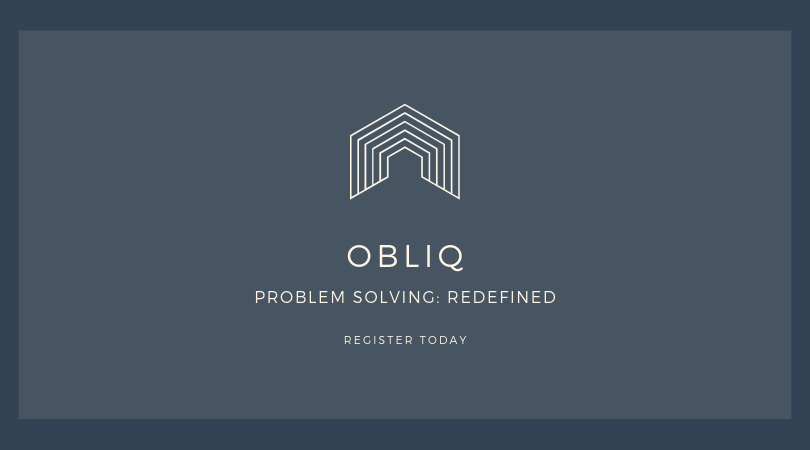
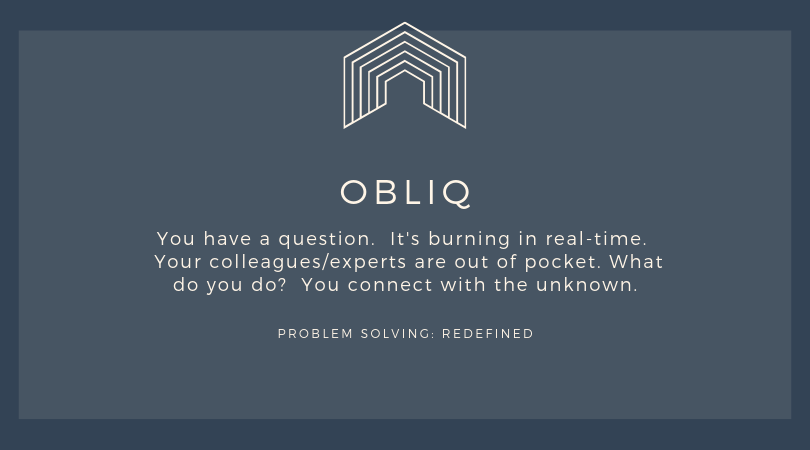
added description to splash & swapped file

Changed region(s): [[0.1852, 0.4978, 0.8333, 0.6844], [0.4012, 0.0311, 0.5864, 0.4667], [0.3395, 0.7156, 0.6481, 0.7778]]

diff --git a/src/main/resources/static/js/animation.js b/src/main/resources/static/js/animation.js
@@ -1,21 +1,179 @@
+let boids = [];
 
 function setup() {
-    createCanvas(720, 400);
-    noStroke();
-    noLoop();
+    createCanvas(100, 600);
+
+    // Add an initial set of boids into the system
+    for (let i = 0; i < 100; i++) {
+        boids[i] = new Boid(random(width), random(height));
+    }
 }
 
 function draw() {
-    drawCircle(width / 2, 280, 6);
-}
-
-function drawCircle(x, radius, level) {
-    const tt = (126 * level) / 4.0;
-    fill(tt);
-    ellipse(x, height / 2, radius * 2, radius * 2);
-    if (level > 1) {
-        level = level - 1;
-        drawCircle(x - radius / 2, radius / 2, level);
-        drawCircle(x + radius / 2, radius / 2, level);
+    background(51);
+    // Run all the boids
+    for (let i = 0; i < boids.length; i++) {
+        boids[i].run(boids);
     }
 }
+
+// Boid class
+// Methods for Separation, Cohesion, Alignment added
+class Boid {
+    constructor(x, y) {
+        this.acceleration = createVector(0, 0);
+        this.velocity = p5.Vector.random2D();
+        this.position = createVector(x, y);
+        this.r = 3.0;
+        this.maxspeed = 3;    // Maximum speed
+        this.maxforce = 0.05; // Maximum steering force
+    }
+
+    run(boids) {
+        this.flock(boids);
+        this.update();
+        this.borders();
+        this.render();
+    }
+
+    // Forces go into acceleration
+    applyForce(force) {
+        this.acceleration.add(force);
+    }
+
+    // We accumulate a new acceleration each time based on three rules
+    flock(boids) {
+        let sep = this.separate(boids); // Separation
+        let ali = this.align(boids);    // Alignment
+        let coh = this.cohesion(boids); // Cohesion
+        // Arbitrarily weight these forces
+        sep.mult(2.5);
+        ali.mult(1.0);
+        coh.mult(1.0);
+        // Add the force vectors to acceleration
+        this.applyForce(sep);
+        this.applyForce(ali);
+        this.applyForce(coh);
+    }
+
+    // Method to update location
+    update() {
+        // Update velocity
+        this.velocity.add(this.acceleration);
+        // Limit speed
+        this.velocity.limit(this.maxspeed);
+        this.position.add(this.velocity);
+        // Reset acceleration to 0 each cycle
+        this.acceleration.mult(0);
+    }
+
+    // A method that calculates and applies a steering force towards a target
+    // STEER = DESIRED MINUS VELOCITY
+    seek(target) {
+        let desired = p5.Vector.sub(target, this.position); // A vector pointing from the location to the target
+        // Normalize desired and scale to maximum speed
+        desired.normalize();
+        desired.mult(this.maxspeed);
+        // Steering = Desired minus Velocity
+        let steer = p5.Vector.sub(desired, this.velocity);
+        steer.limit(this.maxforce); // Limit to maximum steering force
+        return steer;
+    }
+
+    // Draw boid as a circle
+    render() {
+        fill(127, 127);
+        stroke(200);
+        ellipse(this.position.x, this.position.y, 16, 16);
+    }
+
+    // Wraparound
+    borders() {
+        if (this.position.x < -this.r) this.position.x = width + this.r;
+        if (this.position.y < -this.r) this.position.y = height + this.r;
+        if (this.position.x > width + this.r) this.position.x = -this.r;
+        if (this.position.y > height + this.r) this.position.y = -this.r;
+    }
+
+    // Separation
+    // Method checks for nearby boids and steers away
+    separate(boids) {
+        let desiredseparation = 25.0;
+        let steer = createVector(0, 0);
+        let count = 0;
+        // For every boid in the system, check if it's too close
+        for (let i = 0; i < boids.length; i++) {
+            let d = p5.Vector.dist(this.position, boids[i].position);
+            // If the distance is greater than 0 and less than an arbitrary amount (0 when you are yourself)
+            if ((d > 0) && (d < desiredseparation)) {
+                // Calculate vector pointing away from neighbor
+                let diff = p5.Vector.sub(this.position, boids[i].position);
+                diff.normalize();
+                diff.div(d); // Weight by distance
+                steer.add(diff);
+                count++; // Keep track of how many
+            }
+        }
+        // Average -- divide by how many
+        if (count > 0) {
+            steer.div(count);
+        }
+
+        // As long as the vector is greater than 0
+        if (steer.mag() > 0) {
+            // Implement Reynolds: Steering = Desired - Velocity
+            steer.normalize();
+            steer.mult(this.maxspeed);
+            steer.sub(this.velocity);
+            steer.limit(this.maxforce);
+        }
+        return steer;
+    }
+
+    // Alignment
+    // For every nearby boid in the system, calculate the average velocity
+    align(boids) {
+        let neighbordist = 50;
+        let sum = createVector(0, 0);
+        let count = 0;
+        for (let i = 0; i < boids.length; i++) {
+            let d = p5.Vector.dist(this.position, boids[i].position);
+            if ((d > 0) && (d < neighbordist)) {
+                sum.add(boids[i].velocity);
+                count++;
+            }
+        }
+        if (count > 0) {
+            sum.div(count);
+            sum.normalize();
+            sum.mult(this.maxspeed);
+            let steer = p5.Vector.sub(sum, this.velocity);
+            steer.limit(this.maxforce);
+            return steer;
+        } else {
+            return createVector(0, 0);
+        }
+    }
+
+    // Cohesion
+    // For the average location (i.e. center) of all nearby boids, calculate steering vector towards that location
+    cohesion(boids) {
+        let neighbordist = 50;
+        let sum = createVector(0, 0); // Start with empty vector to accumulate all locations
+        let count = 0;
+        for (let i = 0; i < boids.length; i++) {
+            let d = p5.Vector.dist(this.position, boids[i].position);
+            if ((d > 0) && (d < neighbordist)) {
+                sum.add(boids[i].position); // Add location
+                count++;
+            }
+        }
+        if (count > 0) {
+            sum.div(count);
+            return this.seek(sum); // Steer towards the location
+        } else {
+            return createVector(0, 0);
+        }
+    }
+}
+

diff --git a/src/main/resources/templates/tribes/tribe.html b/src/main/resources/templates/tribes/tribe.html
@@ -10,7 +10,7 @@
         <div id="sidebar" class="col-12 col-md-2">
             <h3 class="d-flex justify-content-center my-2">Members</h3>
             <div th:each="user : ${users}" class="col-12 col-md-2">
-                <img th:src="@{${user.imageURL}}" class="profile-img rounded-circle"/>
+                <img th:src="@{${user.imageURL}}" class="profile-img rounded-circle" />
                 <p th:text="${user.username}"></p>
             </div>
         </div>

diff --git a/src/main/resources/static/style.css b/src/main/resources/static/style.css
@@ -17,6 +17,7 @@ body {
     height: 50px;
     width: 50px;
 }
+
 .aboutUs-img {
     height: 200px;
     width: 200px;
@@ -76,12 +77,16 @@ body {
     background-color: #475563;
 }
 
-
 #obliq-logo {
     width: 100%;
     height: 100%;
     padding-bottom: 55px;
+    overflow: hidden;
+    animation: kenburns 20s infinite;
 }
+
+
+
 
 .sidebar {
     height: 100%;

diff --git a/src/main/resources/static/js/navbar.js b/src/main/resources/static/js/navbar.js
@@ -1,3 +1,7 @@
 $(function () {
     $("a.nav-link[href='" + window.location.pathname + "']").addClass('font-weight-bold')
 })
+
+$(function () {
+    $('[data-toggle="popover"]').popover()
+})

diff --git a/src/main/resources/templates/fragments/footer.html b/src/main/resources/templates/fragments/footer.html
@@ -1,4 +1,4 @@
 <div th:fragment="footer" id="footer" class="container-fluid d-flex justify-content-center align-items-center bg-dark">
-    problem solving: redefined
+
 </div>
 
